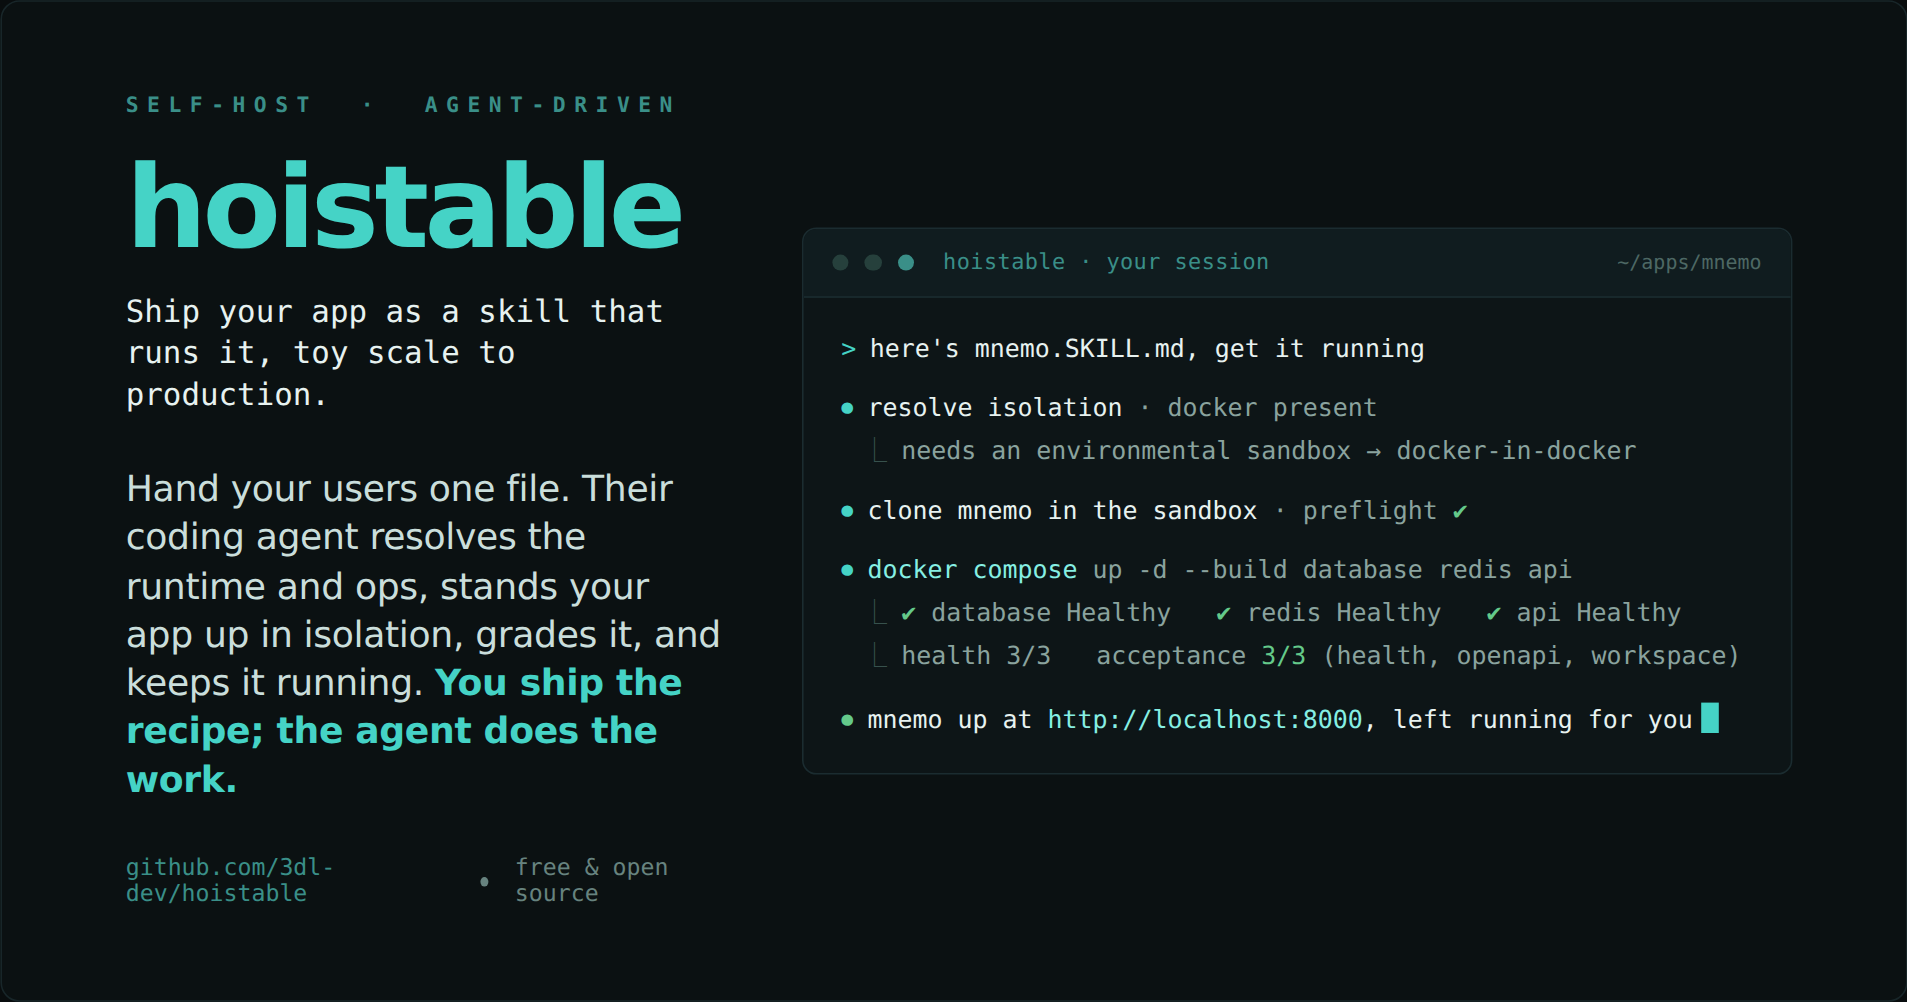
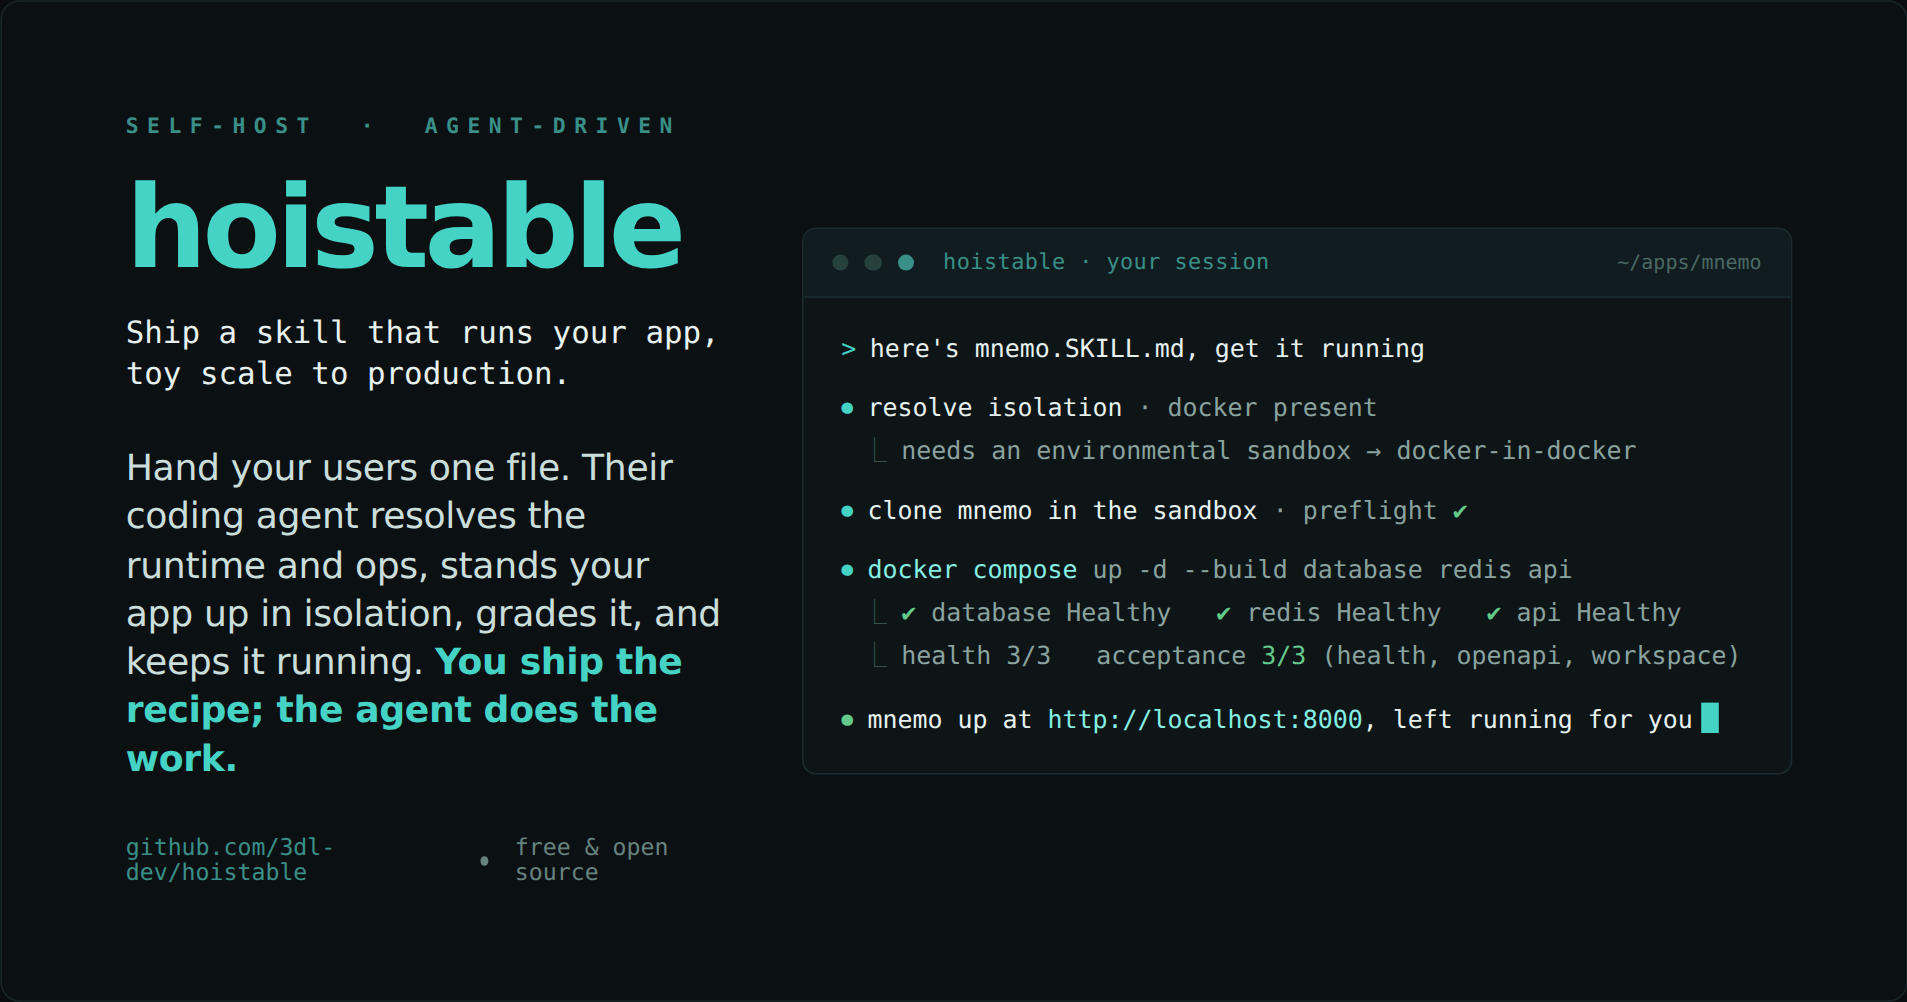
marketing: slower animation with working beats, held ending; headline tightened
Per review: the hero now reads like a real working session, not a slideshow.
- Between each step, a spinner 'working' beat (resolving isolation, probing, cloning,
  building images, verifying) before the result resolves in, so the agent's sequential
  think -> tool-run -> result is obvious.
- Slower pacing (~16s loop) and a long hold on the final 'left running for you' so the
  payoff lands.
- Headline: 'Ship a skill that runs your app, toy scale to production.'
Static preview frame unchanged in shape (177KB); animated hero 3.5MB.

diff --git a/docs/hoistable-hero.html b/docs/hoistable-hero.html
@@ -65,7 +65,7 @@
       <div class="left">
         <div class="eyebrow">Self-host &nbsp;·&nbsp; agent-driven</div>
         <div class="wordmark">hoistable</div>
-        <div class="expand">Ship your app as a skill that runs it, toy scale to production.</div>
+        <div class="expand">Ship a skill that runs your app, toy scale to production.</div>
         <div class="kicker">Hand your users one file. Their coding agent resolves the runtime and ops, stands your app up in isolation, grades it, and keeps it running. <b>You ship the recipe; the agent does the work.</b></div>
         <div class="foot">
           <span class="repo">github.com/3dl-dev/hoistable</span>
